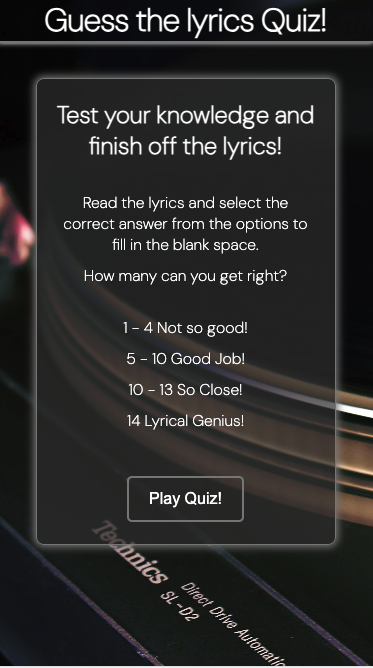
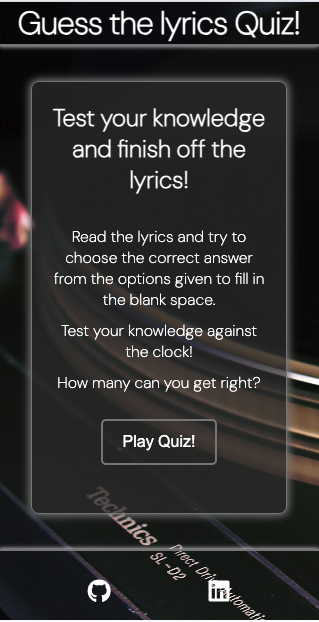
Add new screenshots and details to readme

Changed region(s): [[0.0, 0.0, 1.0, 1.0]]

diff --git a/README.md b/README.md
@@ -66,6 +66,8 @@ The live link can be found here - [Guess The Lyrics Quiz](https://philtipping31.
 
 - The main quiz page is simple yet visually pleasing. The background image is the same as the home page as well as the quiz area being the same style as the main info page. 
 - The header is still visible, allowing a user to go back to the home page at any time during the quiz.
+- Question is displayed along with the answers.
+- Timer is shown at the top of the quiz container and increments in seconds as the user stays playing the quiz.
 
 ### The Question and Answers
 
@@ -105,10 +107,10 @@ The live link can be found here - [Guess The Lyrics Quiz](https://philtipping31.
 
 ![Scores](docs/score-page.png)
 
-### End of Quiz
-
 - The scores page is in place to show the user they have completed the quiz.
 - The user will be able to see how many answers they answered correctly and out of how many questions that are in the quiz.
+- The user will get a different message based on how many questions they answered correctly.
+- The time in which the user took to answer the questions will also show on this page.
 - There is an option for the user to click "Play Again". This reloads the page and resets the scores allowing the user to play the quiz again to see if they can beat their last score.
 
 ## 404 Page 
@@ -127,16 +129,18 @@ The live link can be found here - [Guess The Lyrics Quiz](https://philtipping31.
 
 ![Home Page Mobile](docs/home-page-mobile.png)
 
-![Quiz Page Mobile](docs/incorrect-answer-phone.png)
+![Quiz Page Mobile](docs/quiz-page-mobile.png)
 
 ![Score Page Mobile](docs/score-page-mobile.png)
 
 
 ## Features left to implement
 
-- Timer feature so users can test their knowledge against the clock.
 - Add a Login page so a user can create an account and link with a leaderboard to see how they do against other players.
-- Add more questions and different difficulty settings.
+- Add different difficulty settings.
+- User customisation to choose how many questions they want to get asked.
+- Time limit on how long a question displays.
+
 
 # Testing
 
@@ -211,7 +215,7 @@ All browsers show the page correctly and as intended.
 - CSS
   - No errors were found when passing through the official [W3C CSS Validation Service](https://jigsaw.w3.org/css-validator/validator)
 
-(docs/css-validator.png)
+![CSS Validator](docs/css-validator.png)
 
 - JavaScript
   - I ran my Javascript code through [JSHint](https://jshint.com/) - no warnings show. 
